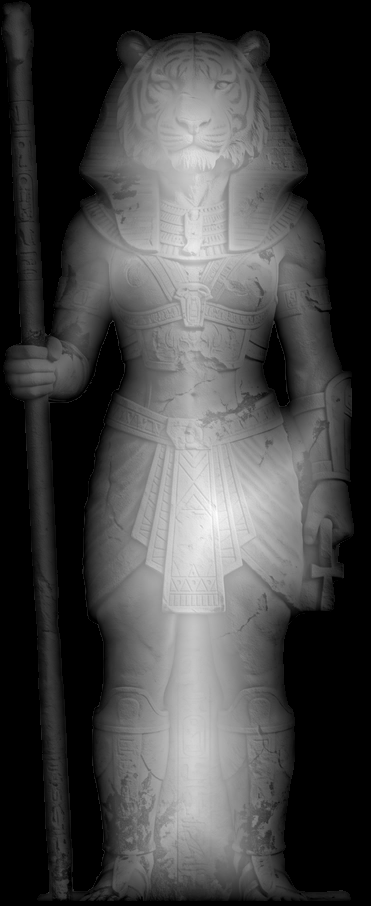
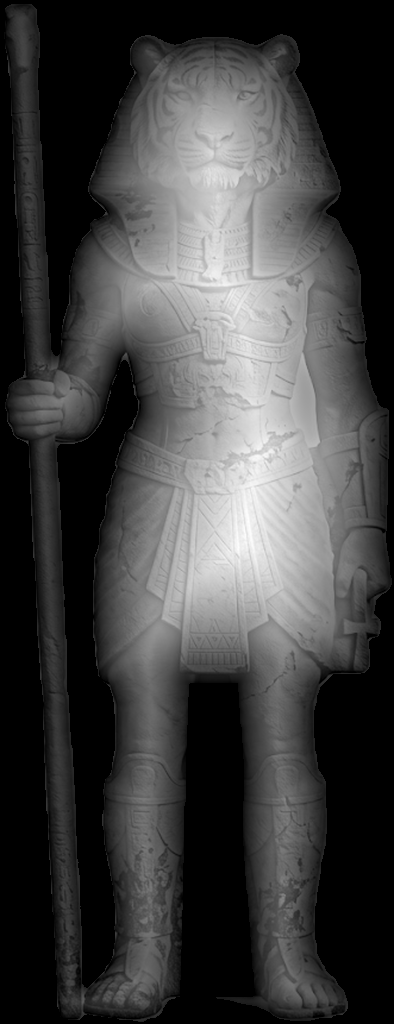
燕尾蝶改成白色半透明；虎的正面像換成沒有石墩、拿掉兩腿間背柱的新圖
Claude-Session: https://claude.ai/code/session_01WT61VZ4MhdTC2Vy4EDZdFG

diff --git a/temple/index.html b/temple/index.html
@@ -223,7 +223,7 @@ function lampSpots(n,front){const out=[];for(let i=0;i<n;i++){const k=Math.floor
 function drawLamps(hz,ox,oy,s,w){const P=PL();const front=!!HALLS[cur].front;
   if(cur==="yuelao"){const f=document.createElement("button");f.className="fly";f.setAttribute("aria-label","燕尾蝶燈・愛自己");const fs=Math.max(80,92*s);
     f.style.cssText=`left:${ox+700*s}px;top:${oy+342*s}px;width:${fs}px;height:${fs*.8}px`;
-    f.innerHTML=`<img src="img/butterfly.png?v=4" alt=""><span class="nm">燕尾蝶・愛自己</span>`;
+    f.innerHTML=`<img src="img/butterfly.png?v=5" alt=""><span class="nm">燕尾蝶・愛自己</span>`;
     f.onclick=()=>{location.href="../love/";};hz.appendChild(f);}
   const L=front?P.lamps.filter(l=>l.done):P.lamps.filter(l=>l.deity===cur&&!l.done);
   const pos=lampSpots(L.length,front),sz=Math.max(18,22*s*(front?.9:1));

diff --git a/index.html b/index.html
@@ -649,7 +649,7 @@ F.hots=[
       me.customDepthMaterial=new R.MeshDepthMaterial({depthPacking:R.RGBADepthPacking,map:mat.map,alphaTest:.5});return me;};
     const mid=new R.Mesh(new R.PlaneGeometry(w,H).translate(0,H/2,0),new R.MeshStandardMaterial({map:ld(base+'.webp'),alphaTest:.5,roughness:.95,side:R.DoubleSide,color:0xB9AE9E}));
     g.add(half(false),half(true),mid);g.userData.w=w;return g;};
-  [['wolf',-1,366,328,898],['tiger',1,454,371,906]].forEach(([k,sd,pw,fw,fh],i)=>{
+  [['wolf',-1,366,328,898],['tiger',1,454,394,1024]].forEach(([k,sd,pw,fw,fh],i)=>{
     const x0=sd*5.2,x1=sd*15;                                  // 門口 ↔ 牆的盡頭
     const root=new R.Group();out.add(root);
     const side=statue(k,'side',pw,1024),front=statue(k,'front',fw,fh);front.visible=false;root.add(side,front);
